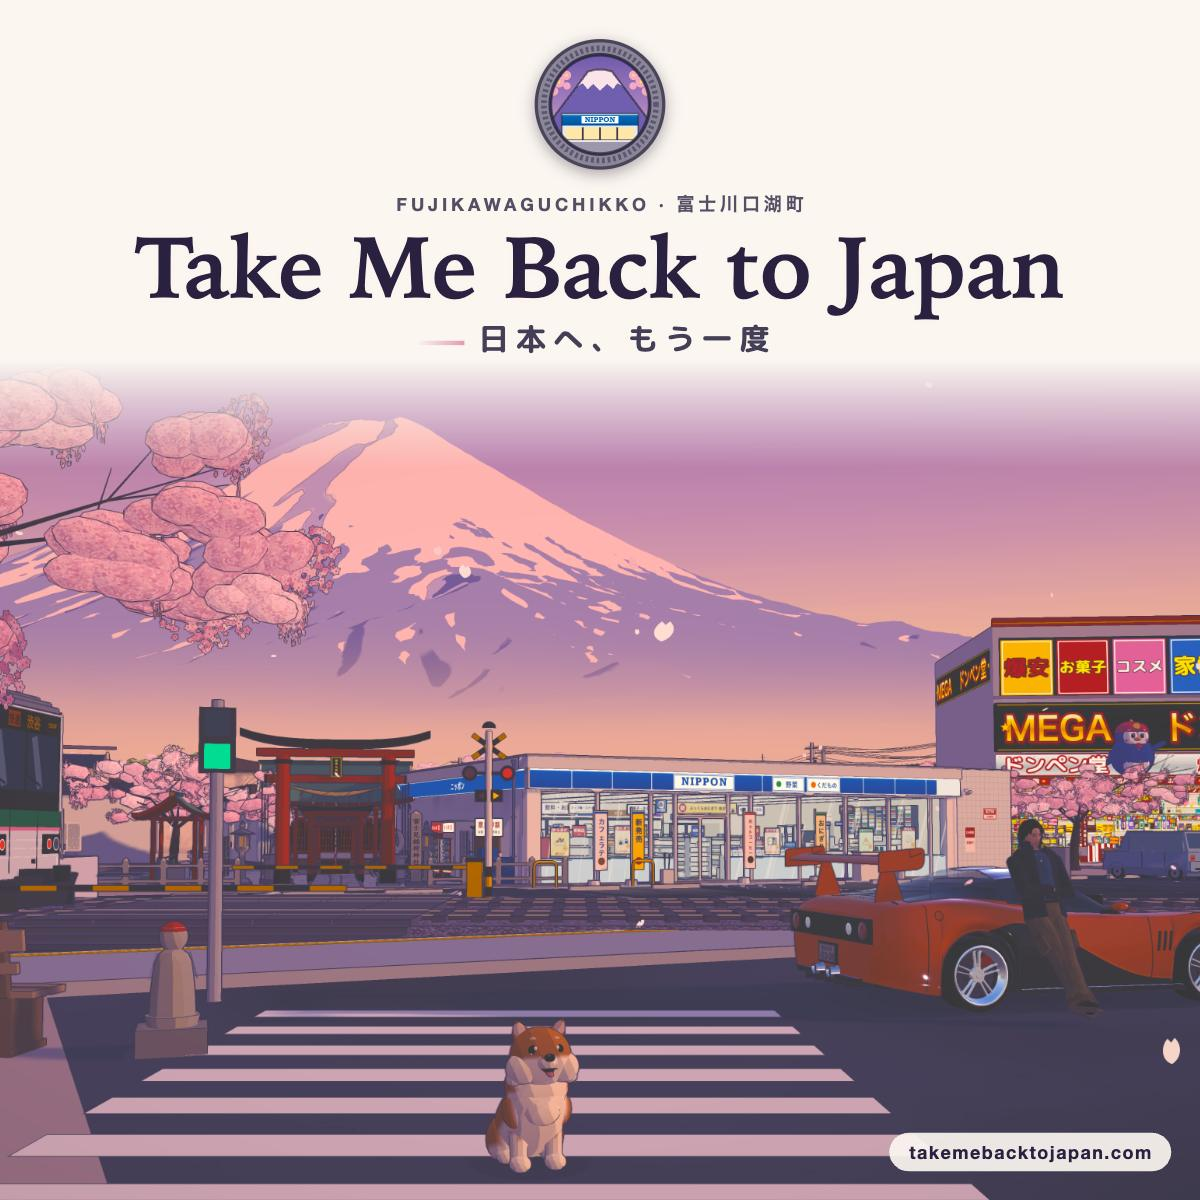
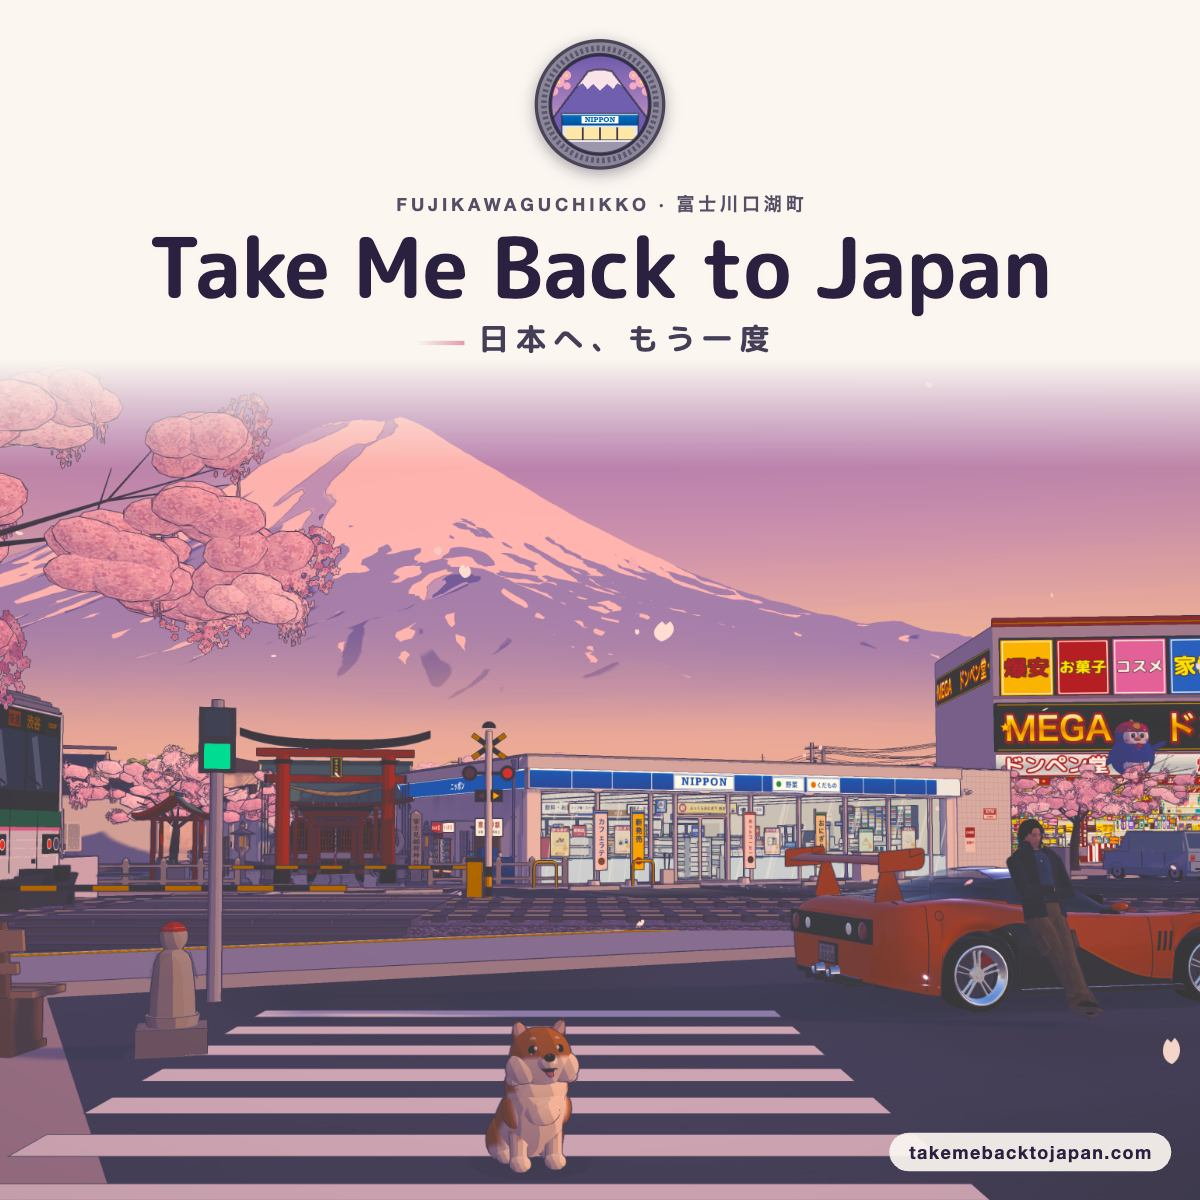
Round title font ('TMBJ Title') on the share images and the selfie's saved picture; og.jpg 143.6 KB, og-square.jpg 149.8 KB

Changed region(s): [[0.0925, 0.185, 0.8942, 0.2775]]

diff --git a/src/ui/postcardSelfie.js b/src/ui/postcardSelfie.js
@@ -125,7 +125,7 @@ function compose(canvas, { bg, dog, photo, brand = false }) {
   x.fillText(STRINGS.postcard.title.toUpperCase(), W - 58, 100);
   if ('letterSpacing' in x) x.letterSpacing = '0px';
   x.fillStyle = INK;
-  x.font = "600 70px 'Iowan Old Style', 'Palatino Linotype', Palatino, 'Book Antiqua', Georgia, serif";
+  x.font = "700 66px 'TMBJ Title', 'Hiragino Maru Gothic ProN', 'Arial Rounded MT Bold', system-ui, sans-serif";   // (the cards' title face)
   x.fillText(STRINGS.title, W - 56, 176);
   const url = MAKER.share.replace(/^https?:\/\//, '');
   x.font = "700 28px -apple-system, BlinkMacSystemFont, 'Segoe UI', system-ui, sans-serif";
@@ -141,6 +141,7 @@ function compose(canvas, { bg, dog, photo, brand = false }) {
  * postcard calls it when it is put away); `file`: the picture once taken, for the share sheet.
  */
 export function createSelfie({ post }) {
+  document.fonts?.load?.("700 66px 'TMBJ Title'");          // the saved picture's title face, ready before the shot
   const style = document.createElement('style');
   style.textContent = CSS;
   document.head.appendChild(style);
